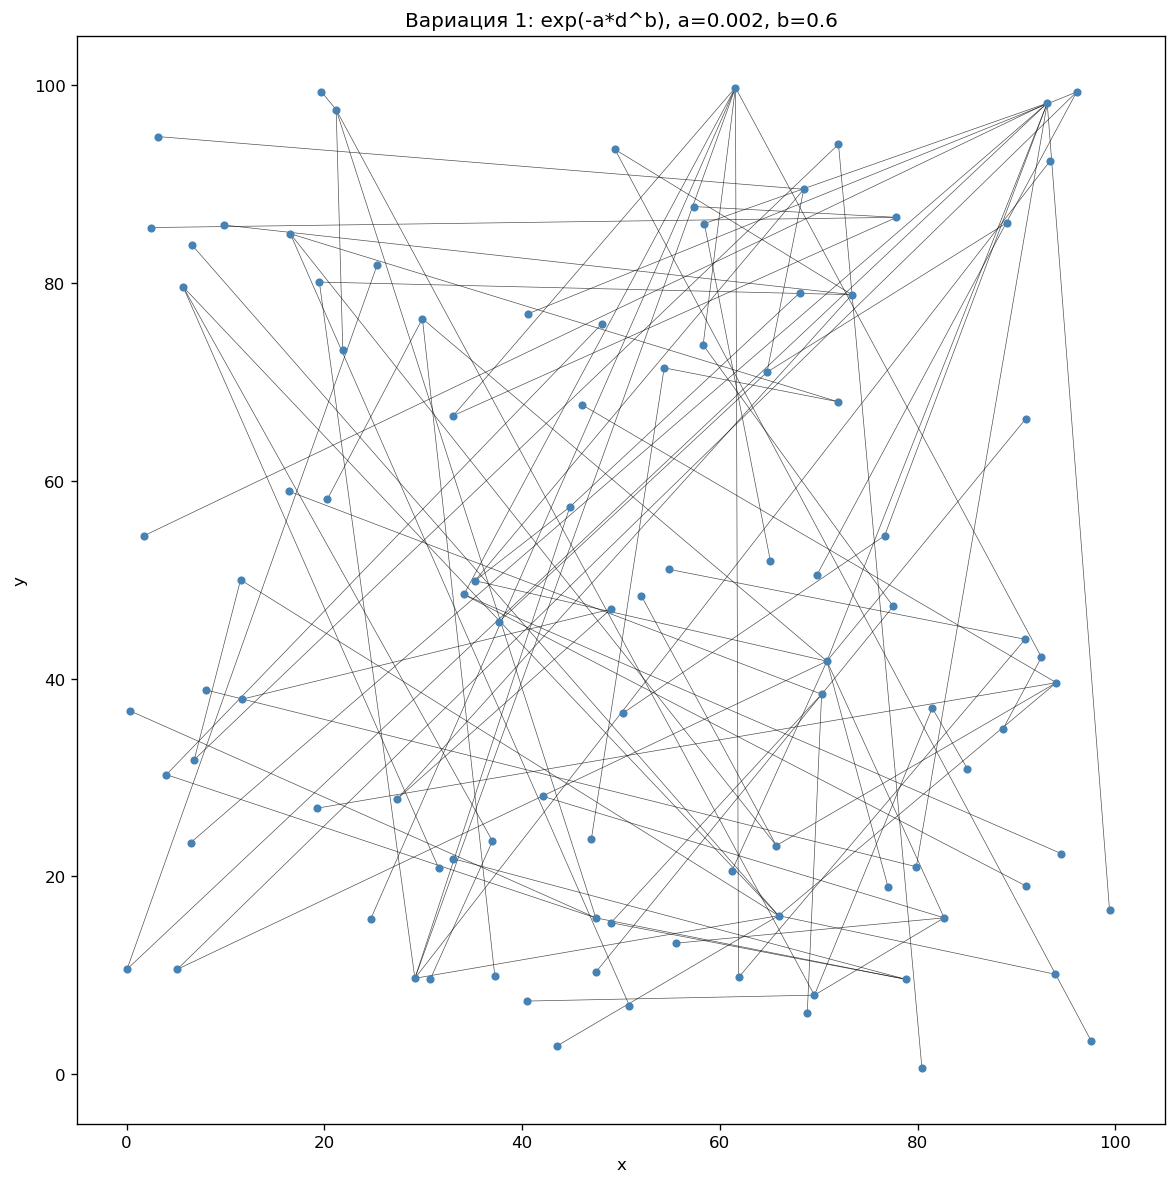
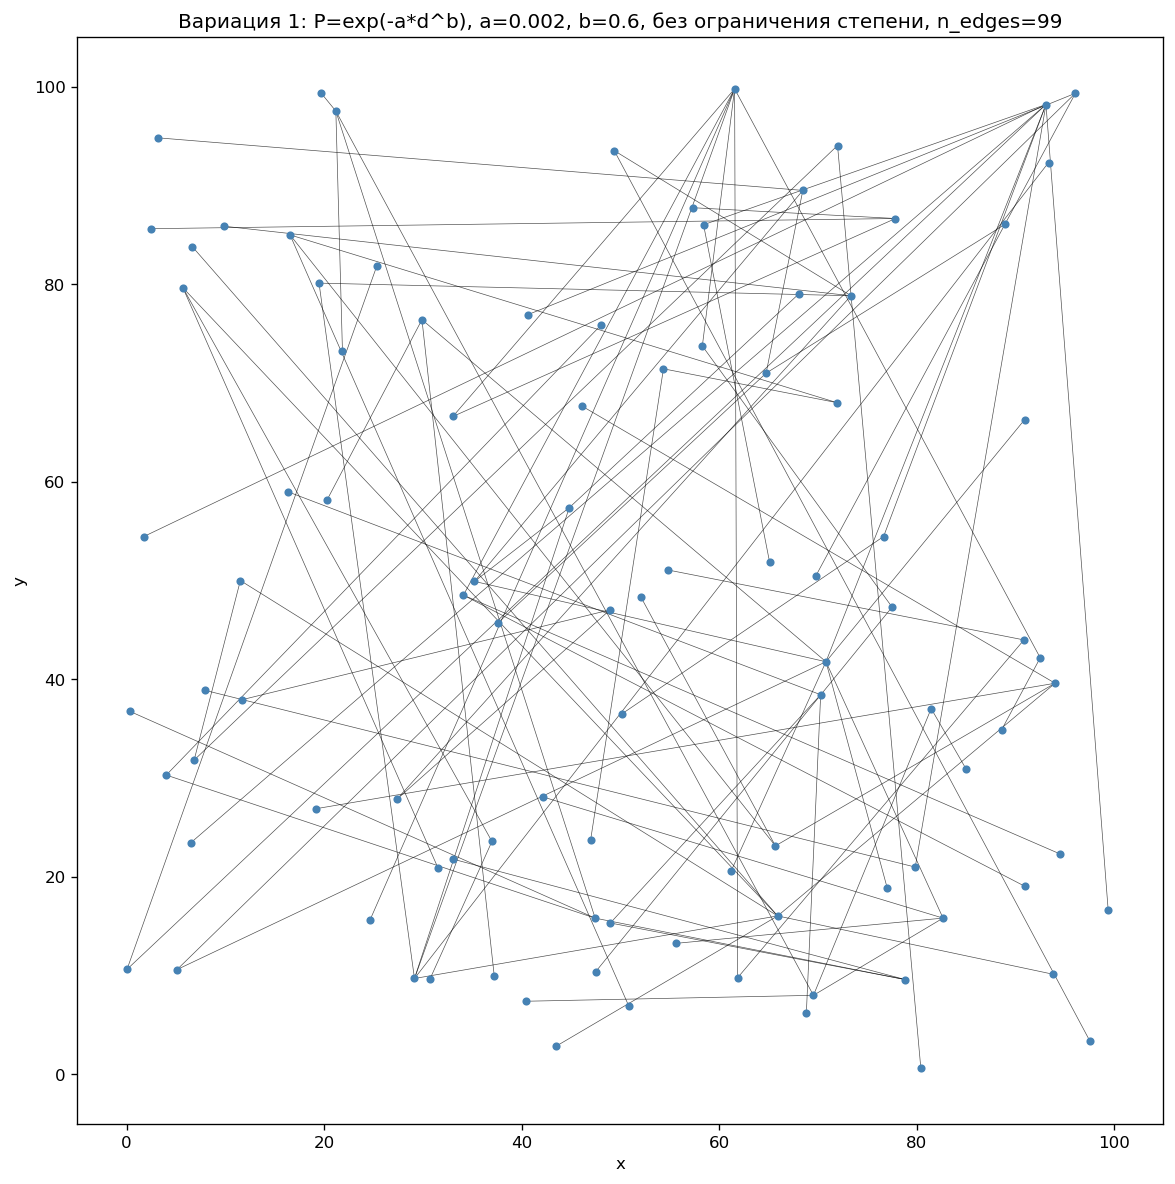
lab-3: на графиках в заголовке — формула, параметры, max_degree_cap, n_edges

diff --git a/lab-3/lab-3.py b/lab-3/lab-3.py
@@ -222,16 +222,28 @@ def generate_interesting_4x5():
             D = dist_matrix(pts)
             rng = np.random.default_rng(seed_rng)
 
+            cap_str = (
+                "без ограничения степени"
+                if cfg["max_degree_cap"] is None
+                else f"max_degree_cap={cfg['max_degree_cap']}"
+            )
+
             if cfg["formula"] == "exp":
                 a, b = cfg["a"], cfg["b"]
                 prob_fn = lambda d, _: p_exp(d, a, b)
                 prob_arg = None
-                title = f"Вариация {idx}: exp(-a*d^b), a={a}, b={b}"
+                title = (
+                    f"Вариация {idx}: P=exp(-a*d^b), a={a}, b={b}, "
+                    f"{cap_str}, n_edges={cfg['n_edges']}"
+                )
             else:
                 b = cfg["b"]
                 prob_fn = lambda d, x: p_pow(d, x)
                 prob_arg = b
-                title = f"Вариация {idx}: 1/d^b, b={b}"
+                title = (
+                    f"Вариация {idx}: P=1/d^b, b={b}, "
+                    f"{cap_str}, n_edges={cfg['n_edges']}"
+                )
 
             edges, degree = build_graph(D, cfg["n_edges"], prob_fn, prob_arg, rng, cfg["max_degree_cap"])
             avg_len = mean_edge_length(edges, D)
